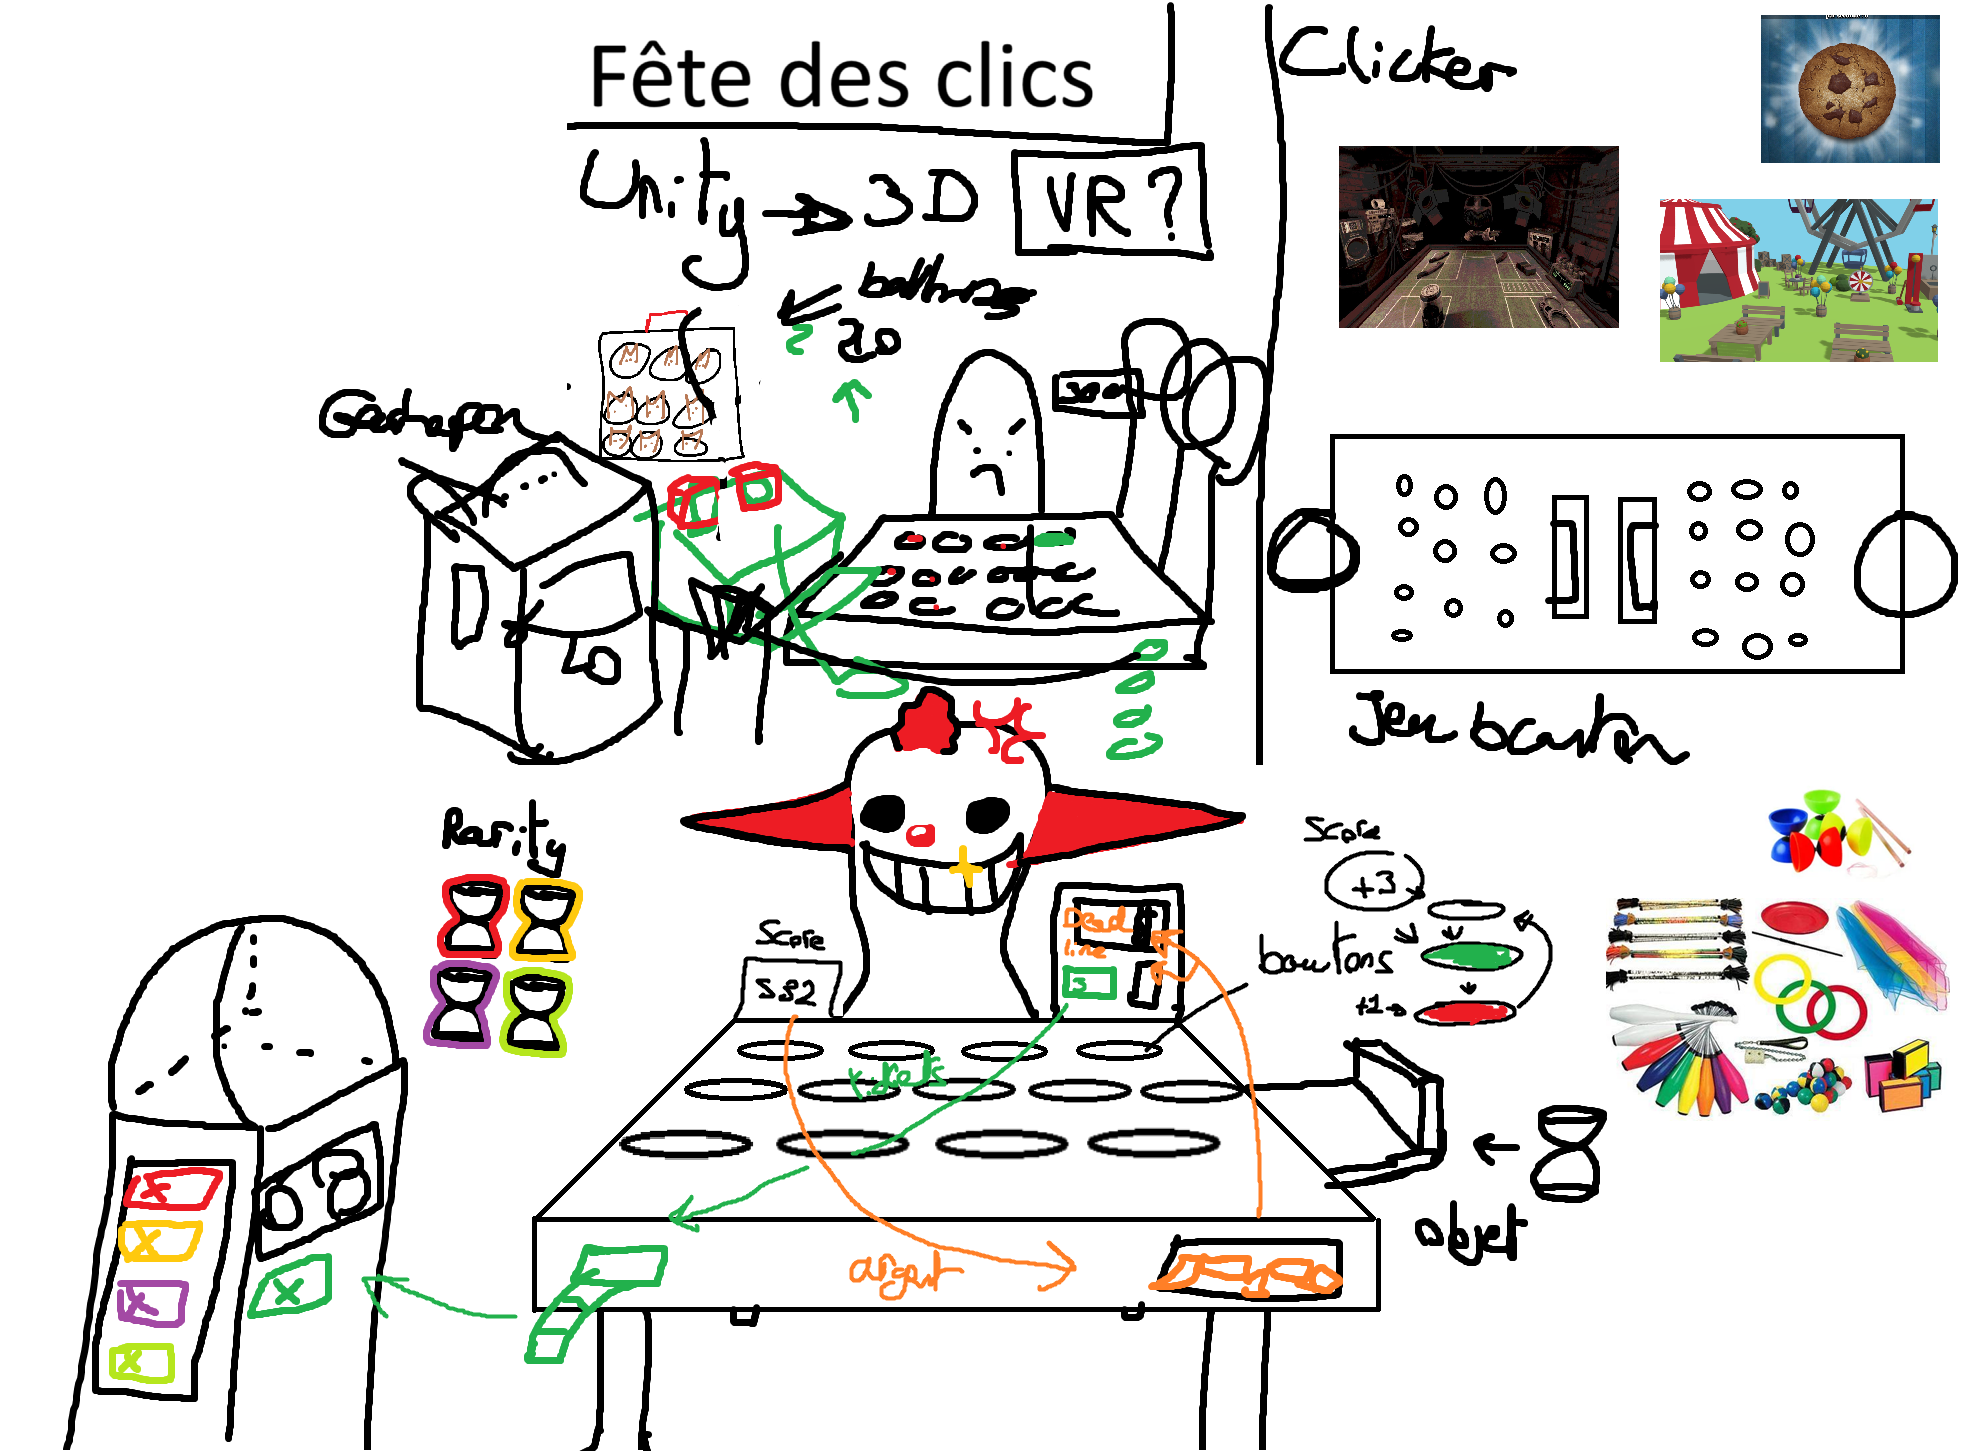
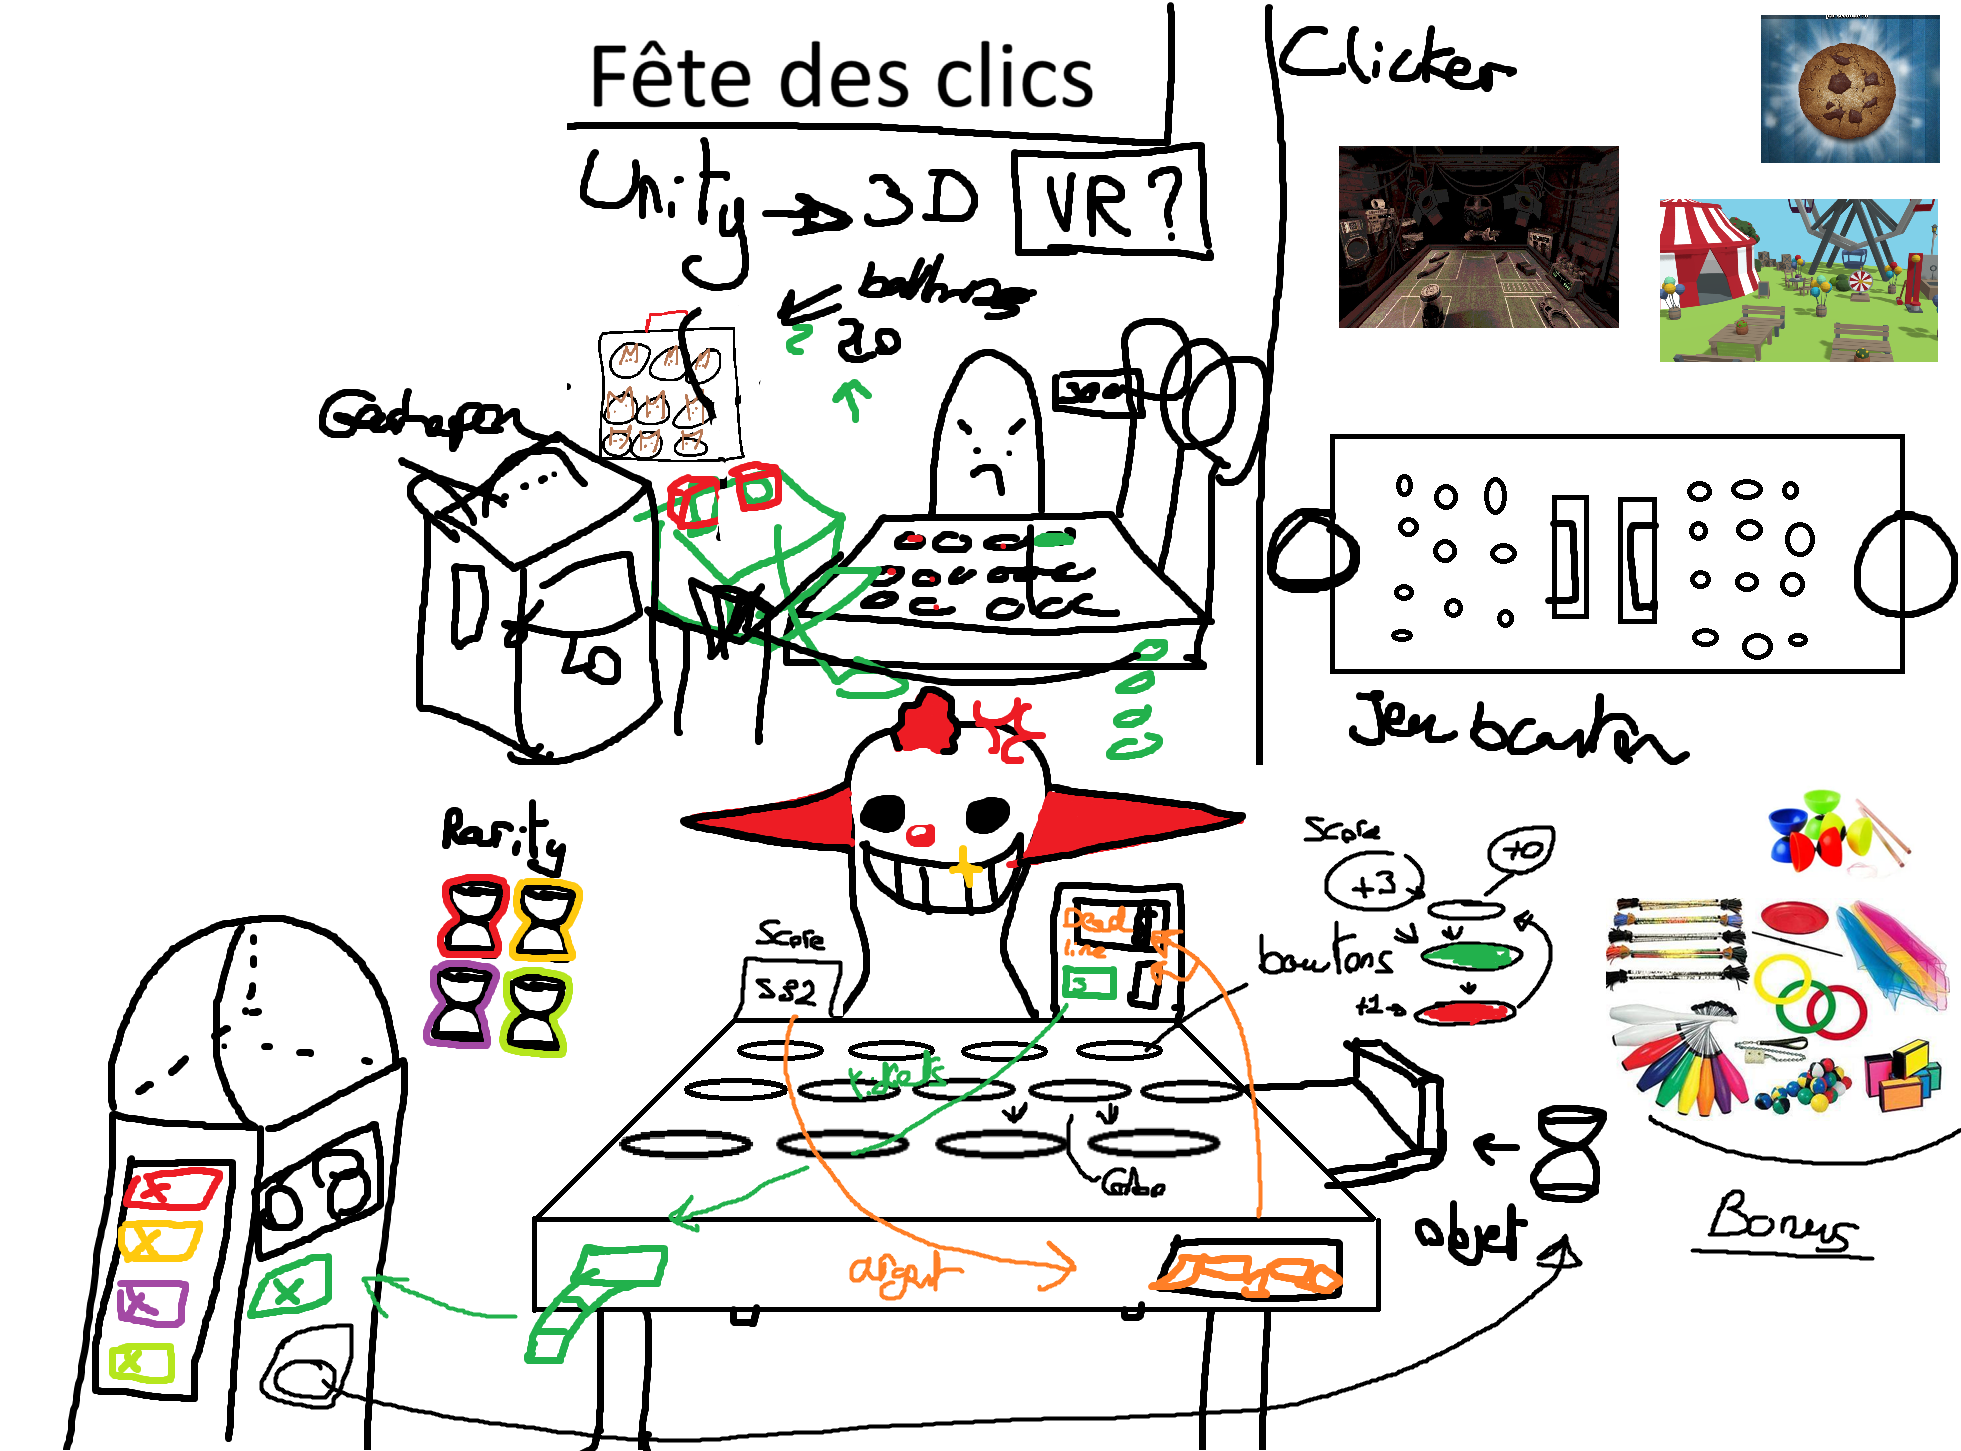
gligli

diff --git a/.ideas/game.md b/.ideas/game.md
@@ -1,0 +1,313 @@
+# 🎡 Button Booth — GDD (Game Jam Scope)
+
+> Rogue-lite arcade de fête foraine : appuie sur les bons boutons, gagne des points, transforme ça en argent, achète des bonus via un **gachapon**, et survie à des **prix de parties** qui explosent.
+
+---
+
+## 1) Objectif du jeu
+- **Objectif principal :** atteindre des **scores très élevés** en optimisant tes bonus, ton combo et ta prise de risque.
+- **Condition de défaite :** si tu **n’as pas assez d’argent** pour payer l’entrée d’une manche → **Game Over**.
+- **Philosophie :** “stand forain truqué” → tout devient de plus en plus dur, mais les runs peuvent devenir “broken”.
+
+---
+
+## 2) Lore & ambiance
+Tu joues dans une **fête foraine** où un **forain / clown automate** te propose un stand de réflexes :
+- “Tu veux rejouer ? Ça coûte plus cher… mais tu peux gagner gros.”
+- Le stand est **truqué** : de nouveaux types de boutons apparaissent, des pièges, des règles injustes…
+- Ton seul but : **battre le stand** à son propre jeu et empiler des bonus absurdes.
+
+Ambiance : **cute + creepy** (néons, rires mécaniques, jingles d’arcade).
+
+---
+
+## 3) Concept & genre
+- **Genre :** arcade reflex + rogue-lite économie
+- **Référence :** “Hit-the-light” / boutons lumineux (mais en solo + loop rogue-lite)
+- **Point fort :** une économie simple (argent + tickets) + choix stratégiques (jouer / skip / gacha / limites de bonus)
+
+---
+
+## 4) Contrôles & feedback
+- Souris / clic : appuyer sur les boutons qui s’allument.
+- UI indispensable :
+  - Temps restant
+  - Score
+  - Argent actuel
+  - Tickets
+  - Manches restantes du tour
+  - (plus tard) Compteur d’erreurs “boutons noirs” : `0/3`
+
+---
+
+## 5) Structure : Tours / Manches / Rounds
+### Règle clé
+- **1 TOUR = 3 MANCHES max**
+- Le joueur peut jouer 1, 2 ou 3 manches selon ses moyens/choix.
+
+### Exemple de progression de prix (modifiable)
+- Manche 1 : **5€**
+- Manche 2 : **12€**
+- Manche 3 : **40€**
+- Si impossible de payer → **perdu**
+
+> Le jeu est pensé pour tenir la deadline : **boucles courtes, décisions rapides, run claire**.
+
+---
+
+## 6) Départ de run
+- Argent : **10€**
+- Tickets : **1**
+- Limite de bonus : **5** (améliorable via bonus spéciaux)
+
+---
+
+## 7) Gameplay d’une manche (30s)
+- Durée : **30 secondes**
+- Plateau de boutons avec 3 états :
+  - 🟢 **Vert** : bon (récompense max)
+  - 🔴 **Rouge** : moyen (récompense faible / “pas optimal”)
+  - ⚪ **Neutre** : nul (0)
+
+### Scoring (valeurs de base)
+- 🟢 Vert : **+3 points**
+- 🔴 Rouge : **+1 point**
+- ⚪ Neutre : **+0**
+
+### Fin de manche : conversion du score
+- Tu gagnes de l’**argent** en fonction du score de la manche.
+- Formule “jam-safe” recommandée (simple à équilibrer) :
+  - `Argent gagné = floor(Score / K)` avec K ajustable (ex : 10, 15, 20)
+- **+1 ticket** par manche gagnée/jouée (règle simple).
+
+---
+
+## 8) Choix : payer sans jouer (skip)
+Le joueur peut :
+- **Payer** une manche **sans la jouer**
+- Objectif : récupérer **plus de tickets** (stratégie “investissement” / “rush tickets”)
+
+### Ticket bonus de fin de tour (selon manches non jouées)
+Principe :
+- Plus tu skip de manches, plus tu récupères de tickets en fin de TOUR.
+
+Exemple de barème (à ajuster, valeur “style” proposée) :
+- 0 manche restante (tu as tout joué) → **0 ticket bonus**
+- 1 manche restante → **+2 tickets bonus**
+- 2 manches restantes → **+4 tickets bonus**
+- 3 manches restantes → **+6 tickets bonus**
+
+> Objectif design : permettre 2 styles de run :  
+> **(A) jouer pour l’argent** vs **(B) skip pour les tickets / bonus**.
+
+---
+
+## 9) Combo (débloqué après le 1er TOUR)
+### Déblocage
+- Le **combo** n’est pas actif au tout début.
+- Il est **débloqué après le 1er TOUR** pour donner une progression claire.
+
+### Fonctionnement (simple & fun)
+- Enchaîner des 🟢 **verts** augmente un multiplicateur :
+  - Monte lentement, retombe vite si tu rates / cliques un mauvais type.
+- Le combo encourage à “lire le plateau” et non spam.
+
+Bonus possibles : ralentir la chute, augmenter la montée, augmenter le cap max.
+
+---
+
+## 10) Boutons noirs (piège late-game)
+### Déblocage
+- **Tour 3 (Round 9)** : apparition des 🖤 boutons noirs.
+
+### Effet (version jam-safe)
+- Appuyer sur un bouton noir :
+  - perte d’argent : ex `-5€`
+  - compteur d’erreurs noires +1 (reset à chaque TOUR)
+
+- À **3 erreurs noires dans le même TOUR** :
+  - tu perds **tout l’argent gagné pendant ce TOUR** (pas ton argent total)
+  - le tour continue (mais tu as “ruiné” tes gains)
+
+Objectif : ajouter une pression anti-snowball sans rendre le jeu injuste.
+
+---
+
+## 11) Économie : Argent vs Tickets
+### Argent (💰)
+- Sert à :
+  - payer les manches
+  - payer les rerolls
+  - survivre à l’escalade des prix
+
+### Tickets (🎟)
+- Sert à :
+  - acheter le **gachapon** (objets/bonus)
+  - obtenir des bonus plus forts
+  - permettre des builds “broken”
+
+> Important : le joueur comprend vite :  
+> **Argent = survie**, **Tickets = puissance**.
+
+---
+
+## 12) Gachapon & Shop
+### Gachapon (objets/bonus)
+- Prix : **1 ticket** par tirage
+- Donne un objet aléatoire selon une table de rareté.
+- Reroll (si on propose un “choix de 3”) :
+  - **2€** au début puis augmente (scaling).
+
+### Reroll scaling (exemple simple)
+- 1er reroll : 2€
+- 2e : 4€
+- 3e : 7€
+- 4e : 11€
+> Augmentation non-linéaire pour éviter le spam.
+
+---
+
+## 13) Raretés (objets & bonus)
+### Raretés proposées
+- 🟢 Commun
+- 🔵 Rare
+- 🟣 Épique
+- 🟡 Légendaire
+- 🔴 Maudit (optionnel si temps)
+
+### Principe
+La rareté **augmente certaines valeurs** d’un même objet (scaling simple).
+
+Exemple de multiplicateurs (proposés) :
+- Commun : x1.0
+- Rare : x1.3
+- Épique : x1.7
+- Légendaire : x2.2
+- Maudit : x2.5 mais avec un malus
+
+---
+
+## 14) Liste d’objets / bonus (scope Game Jam)
+> Objectif : 12–18 objets max, pour rester vite codable.
+
+### A) Bonus “Points”
+1. **Peinture Verte**
+   - Les 🟢 verts donnent +2 points (base)
+   - Rare+ : +3 / +4 / +5
+
+2. **Prime Rouge**
+   - Les 🔴 rouges donnent +1 point supplémentaire
+   - Rare+ : augmente encore
+
+3. **Multiplicateur Doux**
+   - Le combo monte un peu plus vite
+   - Rare+ : montée plus rapide / cap plus haut
+
+### B) Bonus “Tickets”
+4. **Ticket Drop**
+   - Certains boutons (ex: 1 sur 20) donnent 1 ticket au clic (0 point)
+   - Rare+ : fréquence augmentée
+
+5. **Machine Généreuse**
+   - +1 ticket bonus en fin de TOUR
+   - Rare+ : +2 / +3
+
+6. **Skip Reward+**
+   - Quand tu payes une manche sans jouer : +1 ticket bonus
+   - Rare+ : +2 / +3
+
+### C) Bonus “Temps”
+7. **Sablier**
+   - +2 secondes par manche
+   - Rare+ : +3 / +4 / +5
+
+8. **Ralentisseur**
+   - Les boutons restent allumés légèrement plus longtemps
+   - Rare+ : plus long
+
+### D) Bonus “Contrôle / QoL”
+9. **Anti-Fatigue**
+   - Le combo chute moins vite
+   - Rare+ : chute beaucoup moins vite
+
+10. **Second Souffle**
+   - Une fois par TOUR, si tu rates beaucoup : mini “pause” de 1s (ou freeze boutons)
+   - Rare+ : 2 fois / freeze plus long
+
+### E) Bonus “Boutons noirs”
+11. **Assurance**
+   - Réduit la perte d’argent des boutons noirs
+   - Rare+ : réduit davantage
+
+12. **Immunité**
+   - La 1ère erreur noire du TOUR est ignorée
+   - Rare+ : 2 erreurs ignorées (attention équilibre)
+
+### F) Bonus “Slots”
+13. **Poche Supplémentaire**
+   - +1 slot bonus (max bonus > 5)
+   - Rare+ : +2 (à limiter)
+
+14. **Boîte à Outils**
+   - Permet de “jeter” un bonus et récupérer 1 ticket
+   - Rare+ : récupère 2 tickets
+
+### G) Objets “Maudits” (si temps)
+15. **Deal du Diable**
+   - x2 score mais +1 bouton noir supplémentaire apparaît
+16. **Caisse Truquée**
+   - +X€ immédiat mais les prix augmentent plus vite
+
+> Conseil jam : si vous manquez de temps, gardez A+B+C+D et ajoutez noirs + slots en dernier.
+
+---
+
+## 15) Déblocages / Progression (simple)
+- Début : pas de combo
+- Après TOUR 1 : combo activé
+- TOUR 3 (Round 9) : boutons noirs
+- Le reste : uniquement via bonus/gacha (pas de skill tree complexe)
+
+---
+
+## 16) Conditions de victoire / fin
+- Pas de “fin” obligatoire : c’est un **score attack**.
+- Option : afficher “Tour max atteint” + “Meilleur score” + “Build final”.
+
+---
+
+## 17) Scope strict (pour 26h)
+### Must-have (priorité 1)
+- Plateau de boutons + activation aléatoire/pattern
+- Manche 30s
+- Score + conversion en argent
+- Payer pour lancer une manche / game over si pas assez
+- Tickets + gachapon
+- 10–12 bonus
+
+### Nice-to-have (priorité 2)
+- Combo après tour 1
+- Skip payant sans jouer + bonus tickets fin de tour
+- Reroll scaling
+
+### If time (priorité 3)
+- Boutons noirs (tour 3 / round 9)
+- Bonus “slots” +1
+- Objets maudits
+
+---
+
+## 18) Notes d’implémentation (Unity-friendly)
+- Boutons = prefabs
+- Effets/bonus = ScriptableObjects
+- Un seul écran “Arcade Machine”
+- UI claire + feedback (sons “ding/buzz”, flash couleur)
+- RNG contrôlé (tables de rareté + seed optionnel)
+
+---
+
+## 19) Pitch court (jury)
+**Button Booth** est un rogue-lite de fête foraine où chaque partie coûte de plus en plus cher.  
+Tu dois faire un score parfait pour gagner assez d’argent, tout en récupérant des tickets pour tirer des bonus au gachapon et créer un build cassé… avant que le stand ne te piège avec de nouveaux boutons dangereux.
+
+---
